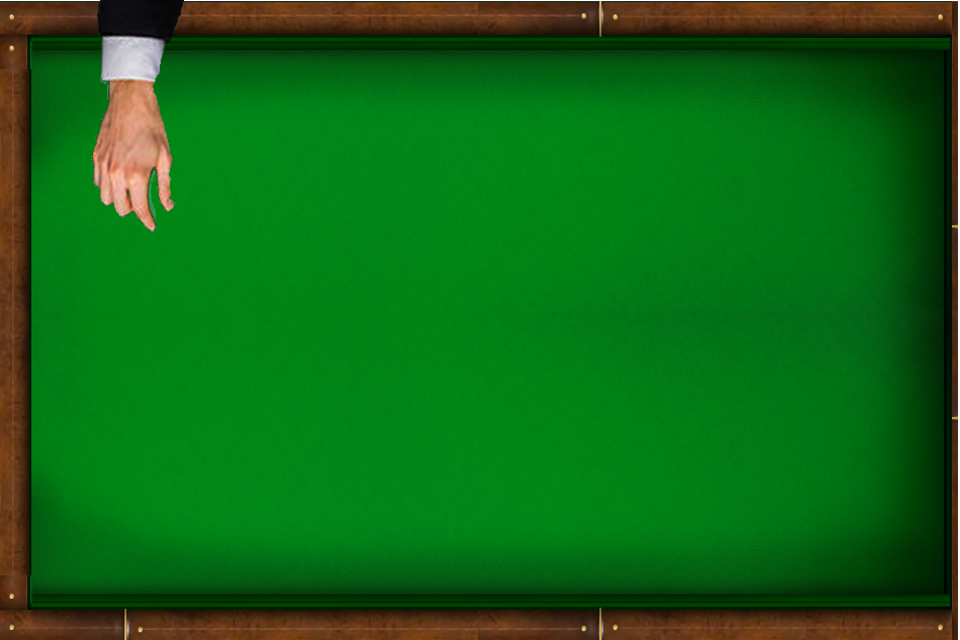
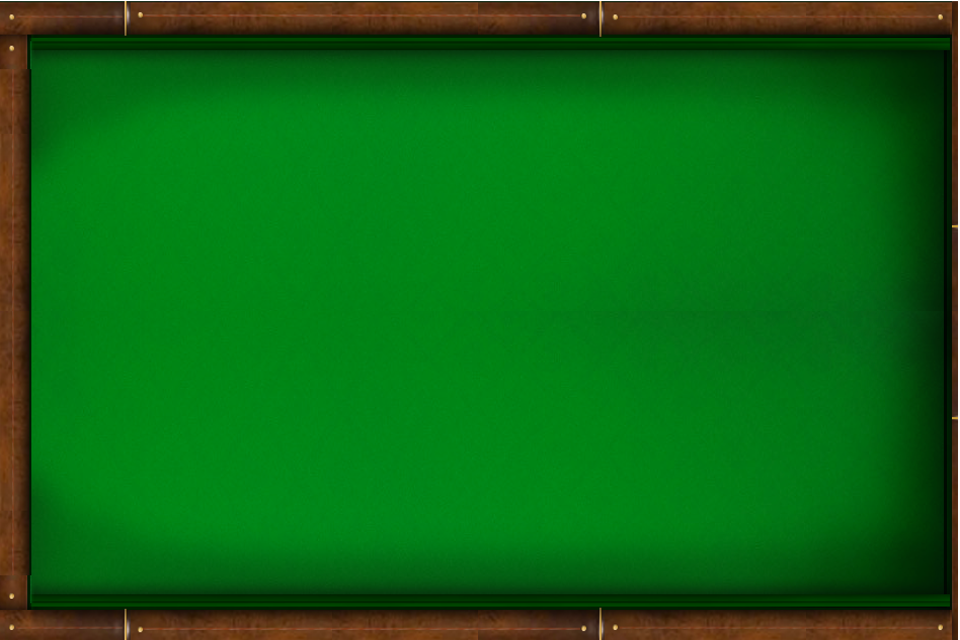
Dealer Hand Commit
Dealer hand now goes to the card being flipped on the dealer side and resets to the deck position when done. Time is adjusted by position. Card deck has also been added and sits on the side between dealer and player cards. Background has been changed to remove dealer hand to allow it to move independently.

Changed region(s): [[0.0938, 0.0, 0.1875, 0.375]]

diff --git a/js/states/Game.js b/js/states/Game.js
@@ -4,6 +4,8 @@ Blackjack.GameState = {
     create: function ()
     {
         this.background = this.add.sprite(0, 0, 'background');
+        this.deck = this.add.sprite(50, 200, 'deck');
+        this.dealer = this.add.sprite(50, 0, 'dealer');
         
         this.cardArray = [
                             ['diamond2', 'diamond3', 'diamond4', 'diamond5', 'diamond6', 'diamond7', 'diamond8', 'diamond9', 'diamond10', 'diamondJ', 'diamondQ', 'diamondK', 'diamondA'],
@@ -20,6 +22,7 @@ Blackjack.GameState = {
         this.dealerCards = this.playerCards[1];
         this.playerCards = this.playerCards[0];
         this.gameOver = false;
+        this.standing = false;
         this.dealerBusted = false;
         this.playerBusted = false;
         this.dealerEleven = false;
@@ -30,6 +33,7 @@ Blackjack.GameState = {
         this.dealer2;
         this.dealer3;
         
+        this.input.enabled = false;
         this.deal(false, false, true);
         this.displayCards('dealer');
         this.checkPlay('dealer', 1);
@@ -38,6 +42,7 @@ Blackjack.GameState = {
         
         this.hitMe = this.add.button(50, 470, 'hitMe', function()
         {
+            this.input.enabled = false;
             //If dealer has played all cards don't play another
             if(this.dealerHand.length < 3)
             {
@@ -45,6 +50,7 @@ Blackjack.GameState = {
                 this.deal(false, true, true);
                 this.displayCards('dealer');
                 this.checkPlay('dealer', 1);
+                this.input.enabled = false;
             }
             else
             {
@@ -57,11 +63,12 @@ Blackjack.GameState = {
         this.call = this.add.button(50, 535, 'call', function()
         {
             //deal out and end
-            while(this.dealerHand.length < 3)
+            if(this.dealerHand.length < 3)
             {
+                this.standing = true;
                 this.deal(false, false, true);
-                this.displayCards('dealer');
                 this.checkPlay('dealer', 1);
+                this.displayCards('dealer');
             }
             //Check if higher than dealer
             if(!this.gameOver)
@@ -384,33 +391,143 @@ console.log(this.currentDealerValue);
             if(this.dealer1 != undefined)
             {
                 this.dealer1.destroy();
+            }
+            if(this.dealer2 != undefined)
+            {
                 this.dealer2.destroy();
+            }
+            if(this.dealer3 != undefined)
+            {
                 this.dealer3.destroy();
             }
             
-            if(this.dealerHand[0] != undefined)
+            if(this.dealerHand[0] != undefined && this.dealerHand[0].sprite === null)
             {
-                this.dealerHand[0].addSprite(200, 100);
+                var temp = this.add.sprite(300, 200, 'cardBack');
+                temp.anchor.setTo(0.5, 0.5);
+                
+                this.dealerHand[0].addSprite(300, 200);
+                this.dealerHand[0].sprite.scale.setTo(0, 1);
+                this.dealerHand[0].sprite.anchor.setTo(0.5, 0.5);
+                
+                this.world.bringToTop(this.dealer);
+                
+                var handTween = this.add.tween(this.dealer).to({x: 200}, 400, "Linear");
+                var backFlip = this.add.tween(temp.scale).to({x: 0}, 150, "Linear");
+                var frontFlip = this.add.tween(this.dealerHand[0].sprite.scale).to({x: 1}, 150, "Linear");
+                var retHand = this.add.tween(this.dealer).to({x: 50}, 400, "Linear");
+                retHand.onComplete.add(function()
+                {
+                    this.input.enabled = true;
+                    
+                    if(this.standing)
+                    {
+                        if(this.dealerHand.length < 3)
+                        {
+                             this.deal(false, false, true);
+                             this.checkPlay('dealer', 1);
+                             this.displayCards('dealer');
+                             this.inputEnabled = false;
+                        }
+                    }
+                }, this);
+                
+                handTween.chain(backFlip);
+                backFlip.chain(frontFlip);
+                frontFlip.chain(retHand);
+                
+                handTween.start();
             }
-            else
+            else if(this.dealerHand[0] === undefined)
             {
-                this.dealer1 = this.add.sprite(200, 100, 'cardBack');
+                this.dealer1 = this.add.sprite(300, 200, 'cardBack');
+                this.dealer1.anchor.setTo(0.5, 0.5);
             }
-            if(this.dealerHand[1] != undefined)
+            
+            if(this.dealerHand[1] != undefined && this.dealerHand[1].sprite === null)
             {
-                this.dealerHand[1].addSprite(400, 100);
+                temp = this.add.sprite(500, 200, 'cardBack');
+                temp.anchor.setTo(0.5, 0.5);
+                
+                this.dealerHand[1].addSprite(500, 200);
+                this.dealerHand[1].sprite.scale.setTo(0, 1);
+                this.dealerHand[1].sprite.anchor.setTo(0.5, 0.5);
+                
+                this.world.bringToTop(this.dealer);
+                
+                handTween = this.add.tween(this.dealer).to({x: 400}, 600, "Linear");
+                backFlip = this.add.tween(temp.scale).to({x: 0}, 200, "Linear");
+                frontFlip = this.add.tween(this.dealerHand[1].sprite.scale).to({x: 1}, 200, "Linear");
+                retHand = this.add.tween(this.dealer).to({x: 50}, 600, "Linear");
+                retHand.onComplete.add(function()
+                {
+                    this.input.enabled = true;
+                    
+                    if(this.standing)
+                    {
+                        if(this.dealerHand.length < 3)
+                        {
+                             this.deal(false, false, true);
+                             this.checkPlay('dealer', 1);
+                             this.displayCards('dealer');
+                             this.inputEnabled = false;
+                        }
+                    }
+                }, this);
+                
+                handTween.chain(backFlip);
+                backFlip.chain(frontFlip);
+                frontFlip.chain(retHand);
+                
+                handTween.start();
             }
-            else
+            else if(this.dealerHand[1] === undefined)
             {
-                this.dealer2 = this.add.sprite(400, 100, 'cardBack');
+                this.dealer2 = this.add.sprite(500, 200, 'cardBack');
+                this.dealer2.anchor.setTo(0.5, 0.5);
             }
-            if(this.dealerHand[2] != undefined)
+            
+            if(this.dealerHand[2] != undefined && this.dealerHand[2].sprite === null)
             {
-                this.dealerHand[2].addSprite(600, 100);
+                temp = this.add.sprite(700, 200, 'cardBack');
+                temp.anchor.setTo(0.5, 0.5);
+                
+                this.dealerHand[2].addSprite(700, 200);
+                this.dealerHand[2].sprite.scale.setTo(0, 1);
+                this.dealerHand[2].sprite.anchor.setTo(0.5, 0.5);
+                
+                this.world.bringToTop(this.dealer);
+                
+                handTween = this.add.tween(this.dealer).to({x: 600}, 800, "Linear");
+                backFlip = this.add.tween(temp.scale).to({x: 0}, 300, "Linear");
+                frontFlip = this.add.tween(this.dealerHand[2].sprite.scale).to({x: 1}, 300, "Linear");
+                retHand = this.add.tween(this.dealer).to({x: 50}, 800, "Linear");
+                retHand.onComplete.add(function()
+                {
+                    this.input.enabled = true;
+                    
+                    if(this.standing)
+                    {
+                        if(this.dealerHand.length < 3)
+                        {
+                             this.deal(false, false, true);
+                             this.checkPlay('dealer', 1);
+                             this.displayCards('dealer');
+                             this.inputEnabled = false;
+                        }
+                    }
+                }, this);
+                
+                handTween.chain(backFlip);
+                backFlip.chain(frontFlip);
+                frontFlip.chain(retHand);
+                
+                handTween.start();
             }
-            else
+            else if(this.dealerHand[2] === undefined)
             {
-                this.dealer3 = this.add.sprite(600, 100, 'cardBack');
+                this.dealer3 = this.add.sprite(700, 200, 'cardBack');
+                this.dealer3.anchor.setTo(0.5, 0.5);
             }
         }
         else if(party == 'player')

diff --git a/js/states/Preload.js b/js/states/Preload.js
@@ -13,6 +13,8 @@ Blackjack.PreloadState = {
         this.load.image('call', 'assets/images/call.png');
         
         this.load.image('cardBack', 'assets/images/cardBack_red5.png');
+        this.load.image('deck', 'assets/images/cardDeck_red5.png');
+        this.load.image('dealer', 'assets/images/dealerHand.png');
         
         
         this.load.image('diamond2', 'assets/images/cardDiamonds2.png');
